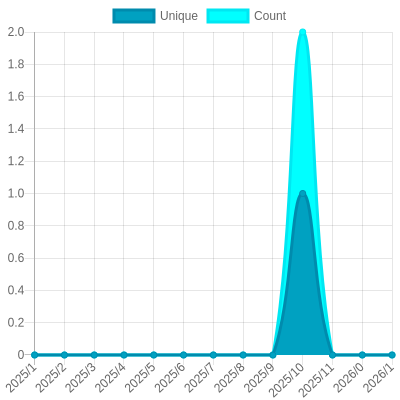
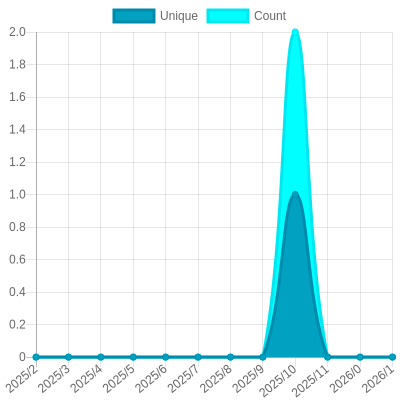
Update views

diff --git a/README.md b/README.md
@@ -26,7 +26,7 @@ The project created and maintained by [gayanvoice](https://github.com/gayanvoice
 			</a>
 		</td>
 		<td>
-			2025/2/26 12:34 AM UTC
+			2025/2/27 12:35 AM UTC
 		</td>
 		<td>
 			1
@@ -37,7 +37,7 @@ The project created and maintained by [gayanvoice](https://github.com/gayanvoice
 	</tr>
 </table>
 
-<small><i>Last updated on 2025/2/28 6:00 PM UTC</i></small>
+<small><i>Last updated on 2025/3/1 12:38 AM UTC</i></small>
 
 ## ✂Copy and 📋 Paste
 ### Total Views Badge

diff --git a/readme/888849578/year.md b/readme/888849578/year.md
@@ -150,21 +150,10 @@
 			<code>0</code>
 		</td>
 	</tr>
-	<tr>
-		<td>
-			<code>2024/2/1</code>
-		</td>
-		<td>
-			<code>0</code>
-		</td>
-		<td>
-			<code>0</code>
-		</td>
-	</tr>
 </table>
 
 </details>
-<small><i>Last updated on 2025/2/28 6:00 PM UTC</i></small>
+<small><i>Last updated on 2025/3/1 12:38 AM UTC</i></small>
 
 ## ✂Copy and 📋 Paste
 ### SVG Badge
